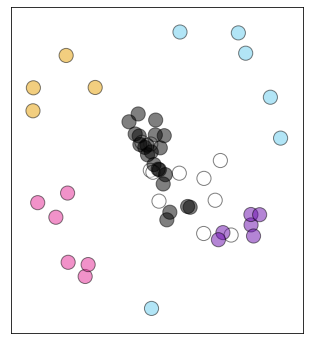
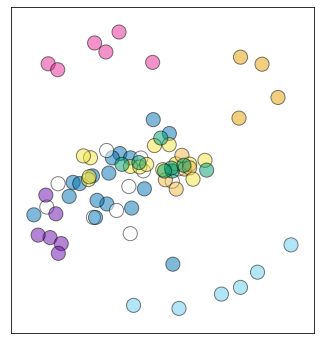
fix convalescent serum names

diff --git a/results/summary/mds_escape_profiles.md b/results/summary/mds_escape_profiles.md
@@ -9,6 +9,8 @@ Import Python modules:
 import itertools
 import os
 
+import altair as alt
+
 import adjustText
 
 from dms_variants.constants import CBPALETTE
@@ -311,6 +313,56 @@ for name, specs in mds_config.items():
     fig.savefig(plotfile, bbox_inches='tight')
     plt.show(fig)
     plt.close(fig)
+    
+    # make Altair versions for one specific plot
+    if name != 'Moderna_HAARVI_mAbs':
+        continue
+    color_to_class = {'#000000': 'vaccine sera',
+                      '#66CCEE': 'class 3 antibody',
+                      '#6a0dad': 'class 2 antibody',
+                      '#E52794': 'class 1 antibody',
+                      '#E69F00': 'class 4 antibody',
+                      '#FFFFFF': 'convalescent plasma'}
+    class_to_color = {val: key for key, val in color_to_class.items()}
+    alt_df = pd.DataFrame({'x': xs,
+                           'y': ys,
+                           'antibody / sera': conditions,
+                           'class': [color_to_class[c[0]] for c in colors],
+                           })
+    chart = (
+        alt.Chart(alt_df)
+        .encode(x=alt.X('x:Q',
+                        axis=alt.Axis(title=None,
+                                      grid=False,
+                                      labels=False,
+                                      ticks=False,
+                                      ),
+                        ),
+                y=alt.Y('y:Q',
+                        axis=alt.Axis(title=None,
+                                      grid=False,
+                                      labels=False,
+                                      ticks=False,
+                                      ),
+                        ),
+                color=alt.Color('class:N',
+                                scale=alt.Scale(range=[val for _, val in sorted(class_to_color.items())])
+                                ),
+                tooltip=['antibody / sera', 'class'],
+                )
+        .mark_circle(size=100,
+                     stroke='black',
+                     opacity=0.6,
+                     )
+        .properties(width=400,
+                    height=400)
+        .configure_view(strokeWidth=1,
+                        stroke='black')
+        )
+    int_chart_file = os.path.splitext(plotfile)[0] + '.html'
+    print(f"Saving interactive chart to {int_chart_file}")
+    display(chart)
+    chart.save(int_chart_file)
 ```
 
     
@@ -326,6 +378,62 @@ for name, specs in mds_config.items():
     
 
 
+    Saving interactive chart to results/multidimensional_scaling/Moderna_HAARVI_mAbs_mds.html
+
+
+
+
+<div id="altair-viz-215bc0b73fd94fcf8ceeb1de61f2f538"></div>
+<script type="text/javascript">
+  (function(spec, embedOpt){
+    let outputDiv = document.currentScript.previousElementSibling;
+    if (outputDiv.id !== "altair-viz-215bc0b73fd94fcf8ceeb1de61f2f538") {
+      outputDiv = document.getElementById("altair-viz-215bc0b73fd94fcf8ceeb1de61f2f538");
+    }
+    const paths = {
+      "vega": "https://cdn.jsdelivr.net/npm//vega@5?noext",
+      "vega-lib": "https://cdn.jsdelivr.net/npm//vega-lib?noext",
+      "vega-lite": "https://cdn.jsdelivr.net/npm//vega-lite@4.8.1?noext",
+      "vega-embed": "https://cdn.jsdelivr.net/npm//vega-embed@6?noext",
+    };
+
+    function loadScript(lib) {
+      return new Promise(function(resolve, reject) {
+        var s = document.createElement('script');
+        s.src = paths[lib];
+        s.async = true;
+        s.onload = () => resolve(paths[lib]);
+        s.onerror = () => reject(`Error loading script: ${paths[lib]}`);
+        document.getElementsByTagName("head")[0].appendChild(s);
+      });
+    }
+
+    function showError(err) {
+      outputDiv.innerHTML = `<div class="error" style="color:red;">${err}</div>`;
+      throw err;
+    }
+
+    function displayChart(vegaEmbed) {
+      vegaEmbed(outputDiv, spec, embedOpt)
+        .catch(err => showError(`Javascript Error: ${err.message}<br>This usually means there's a typo in your chart specification. See the javascript console for the full traceback.`));
+    }
+
+    if(typeof define === "function" && define.amd) {
+      requirejs.config({paths});
+      require(["vega-embed"], displayChart, err => showError(`Error loading script: ${err.message}`));
+    } else if (typeof vegaEmbed === "function") {
+      displayChart(vegaEmbed);
+    } else {
+      loadScript("vega")
+        .then(() => loadScript("vega-lite"))
+        .then(() => loadScript("vega-embed"))
+        .catch(showError)
+        .then(() => displayChart(vegaEmbed));
+    }
+  })({"config": {"view": {"continuousWidth": 400, "continuousHeight": 300, "stroke": "black", "strokeWidth": 1}}, "data": {"name": "data-ee61cd32dc635e6d5446525c4ff0e1f4"}, "mark": {"type": "circle", "opacity": 0.6, "size": 100, "stroke": "black"}, "encoding": {"color": {"type": "nominal", "field": "class", "scale": {"range": ["#E52794", "#6a0dad", "#66CCEE", "#E69F00", "#FFFFFF", "#000000"]}}, "tooltip": [{"type": "nominal", "field": "antibody / sera"}, {"type": "nominal", "field": "class"}], "x": {"type": "quantitative", "axis": {"grid": false, "labels": false, "ticks": false, "title": null}, "field": "x"}, "y": {"type": "quantitative", "axis": {"grid": false, "labels": false, "ticks": false, "title": null}, "field": "y"}}, "height": 400, "width": 400, "$schema": "https://vega.github.io/schema/vega-lite/v4.8.1.json", "datasets": {"data-ee61cd32dc635e6d5446525c4ff0e1f4": [{"x": -0.03986632910633704, "y": -0.2834240393389698, "antibody / sera": "subject H (day 152)", "class": "convalescent plasma"}, {"x": -0.03321102379001797, "y": -0.16142343536787238, "antibody / sera": "subject H (day 61)", "class": "convalescent plasma"}, {"x": 0.16066049598044355, "y": -0.03334249507451495, "antibody / sera": "subject J (day 121)", "class": "convalescent plasma"}, {"x": 0.14682897906393716, "y": 0.19440717161258741, "antibody / sera": "subject J (day 15)", "class": "convalescent plasma"}, {"x": -0.04665356006446851, "y": -0.05846997855766021, "antibody / sera": "subject B (day 113)", "class": "convalescent plasma"}, {"x": -0.22012230086862694, "y": -0.007991552874154836, "antibody / sera": "subject B (day 26)", "class": "convalescent plasma"}, {"x": -0.43808896810808695, "y": -0.1565237554388361, "antibody / sera": "subject E (day 104)", "class": "convalescent plasma"}, {"x": -0.15171604601964986, "y": -0.1418199843603223, "antibody / sera": "subject E (day 28)", "class": "convalescent plasma"}, {"x": -0.21576150782364661, "y": -0.20596969968026524, "antibody / sera": "subject I (day 102)", "class": "convalescent plasma"}, {"x": -0.20572250714497778, "y": -0.20635203240130465, "antibody / sera": "subject I (day 26)", "class": "convalescent plasma"}, {"x": 0.02298664610534081, "y": 0.016334926342672543, "antibody / sera": "subject A (day 120)", "class": "convalescent plasma"}, {"x": -0.08959821241546158, "y": 0.09855428481871517, "antibody / sera": "subject A (day 21)", "class": "convalescent plasma"}, {"x": -0.038431410392108574, "y": 0.07819630816084515, "antibody / sera": "subject A (day 45)", "class": "convalescent plasma"}, {"x": -0.3842211484022715, "y": -0.045241007071251824, "antibody / sera": "subject C (day 104)", "class": "convalescent plasma"}, {"x": -0.5000126170483079, "y": -0.19371728270933142, "antibody / sera": "subject C (day 32)", "class": "convalescent plasma"}, {"x": -0.1052379579987309, "y": -0.1728851448081848, "antibody / sera": "subject F (day 115)", "class": "convalescent plasma"}, {"x": -0.31270984620458114, "y": -0.0386782409172238, "antibody / sera": "subject F (day 48)", "class": "convalescent plasma"}, {"x": 0.16344775612841414, "y": -0.4292491762007971, "antibody / sera": "subject G (day 18)", "class": "convalescent plasma"}, {"x": 0.18889578786599467, "y": 0.025841264714497596, "antibody / sera": "subject G (day 94)", "class": "convalescent plasma"}, {"x": -0.12537194731691892, "y": 0.07812244057270182, "antibody / sera": "subject D (day 33)", "class": "convalescent plasma"}, {"x": 0.01086728110953954, "y": 0.07743845247711816, "antibody / sera": "subject D (day 76)", "class": "convalescent plasma"}, {"x": -0.1526773973461746, "y": 0.11334115739258477, "antibody / sera": "subject K (day 103)", "class": "convalescent plasma"}, {"x": 0.06982659296641441, "y": 0.2606990780111509, "antibody / sera": "subject K (day 29)", "class": "convalescent plasma"}, {"x": -0.3949862384246651, "y": -0.1889191815777102, "antibody / sera": "C002", "class": "class 2 antibody"}, {"x": -0.21011770256001705, "y": 0.6265589198872832, "antibody / sera": "C105", "class": "class 1 antibody"}, {"x": 0.19270768886087572, "y": -0.6403750084402929, "antibody / sera": "C110", "class": "class 3 antibody"}, {"x": -0.4226923511466742, "y": -0.3022764818902147, "antibody / sera": "C121", "class": "class 2 antibody"}, {"x": 0.7273476812584333, "y": -0.3370986084124763, "antibody / sera": "C135", "class": "class 3 antibody"}, {"x": -0.4428396134363275, "y": -0.09950580597360711, "antibody / sera": "C144", "class": "class 2 antibody"}, {"x": -0.15615304683503087, "y": 0.5836225673533794, "antibody / sera": "LY-CoV016", "class": "class 1 antibody"}, {"x": -0.1982695813105976, "y": -0.12466175198128877, "antibody / sera": "COV-021", "class": "convalescent plasma"}, {"x": -0.2812125248180074, "y": -0.04450911954202017, "antibody / sera": "COV-047", "class": "convalescent plasma"}, {"x": -0.33145731281693863, "y": -0.1056703811355667, "antibody / sera": "COV-057", "class": "convalescent plasma"}, {"x": -0.14205802788768632, "y": 0.005444728769084952, "antibody / sera": "COV-072", "class": "convalescent plasma"}, {"x": 0.027552795016735313, "y": -0.06955592330702681, "antibody / sera": "COV-107", "class": "convalescent plasma"}, {"x": -0.4797208070517162, "y": -0.2904860456707257, "antibody / sera": "COV2-2050", "class": "class 2 antibody"}, {"x": 0.4863057436200315, "y": 0.5588025548186991, "antibody / sera": "COV2-2082", "class": "class 4 antibody"}, {"x": 0.5891078987105037, "y": 0.5252331454884698, "antibody / sera": "COV2-2094", "class": "class 4 antibody"}, {"x": -0.024032702051660883, "y": -0.6257119250617433, "antibody / sera": "COV2-2096", "class": "class 3 antibody"}, {"x": 0.5675224218642329, "y": -0.46737462107926525, "antibody / sera": "COV2-2130", "class": "class 3 antibody"}, {"x": 0.06695123855575204, "y": 0.5339576863500118, "antibody / sera": "COV2-2165", "class": "class 1 antibody"}, {"x": -0.0934125828234101, "y": 0.678805399101716, "antibody / sera": "COV2-2196", "class": "class 1 antibody"}, {"x": -0.3692627267494232, "y": -0.3309452755171947, "antibody / sera": "COV2-2479", "class": "class 2 antibody"}, {"x": 0.3951811802110181, "y": -0.5718802303825791, "antibody / sera": "COV2-2499", "class": "class 3 antibody"}, {"x": 0.6653244939788463, "y": 0.3664479031204229, "antibody / sera": "COV2-2677", "class": "class 4 antibody"}, {"x": -0.4316294312679841, "y": 0.5271898018597563, "antibody / sera": "COV2-2832", "class": "class 1 antibody"}, {"x": 0.47917732233761423, "y": 0.2679053833724255, "antibody / sera": "CR3022", "class": "class 4 antibody"}, {"x": -0.383183969852771, "y": -0.37747144898455876, "antibody / sera": "LY-CoV555", "class": "class 2 antibody"}, {"x": -0.03898783125797423, "y": 0.03700593559858729, "antibody / sera": "M01 (day 119)", "class": "vaccine sera"}, {"x": 0.0056882534115529175, "y": 0.034827094661703355, "antibody / sera": "M02 (day 119)", "class": "vaccine sera"}, {"x": 0.1278257451247425, "y": -0.026389442739785926, "antibody / sera": "M02 (day 36)", "class": "vaccine sera"}, {"x": 0.14590631940634882, "y": 0.14099129474971472, "antibody / sera": "M03 (day 119)", "class": "vaccine sera"}, {"x": 0.17802589439196917, "y": 0.049594181110379165, "antibody / sera": "M04 (day 119)", "class": "vaccine sera"}, {"x": -0.22969643697359748, "y": 0.07868080809722389, "antibody / sera": "M05 (day 119)", "class": "vaccine sera"}, {"x": 0.21965054048717228, "y": 0.024931232318086135, "antibody / sera": "M05 (day 36)", "class": "vaccine sera"}, {"x": -0.26343253904849484, "y": 0.08756779979790569, "antibody / sera": "M06 (day 119)", "class": "vaccine sera"}, {"x": 0.038451712266843276, "y": 0.046949161629994296, "antibody / sera": "M07 (day 119)", "class": "vaccine sera"}, {"x": 0.0756785088629505, "y": 0.13696143865490612, "antibody / sera": "M08 (day 119)", "class": "vaccine sera"}, {"x": 0.206787931237728, "y": 0.09033083438268409, "antibody / sera": "M08 (day 36)", "class": "vaccine sera"}, {"x": 0.11527756498850589, "y": 0.02201171743427806, "antibody / sera": "M09 (day 119)", "class": "vaccine sera"}, {"x": -0.23918492378752623, "y": -0.025469933331090662, "antibody / sera": "M10 (day 119)", "class": "vaccine sera"}, {"x": 0.17951855963315708, "y": -0.07083029204565332, "antibody / sera": "M10 (day 36)", "class": "vaccine sera"}, {"x": -0.23564399762522567, "y": -0.011702133940489698, "antibody / sera": "M11 (day 119)", "class": "vaccine sera"}, {"x": 0.2440027496823892, "y": 0.04826422507407195, "antibody / sera": "M12 (day 119)", "class": "vaccine sera"}, {"x": 0.24363791517876673, "y": 0.03062392556612426, "antibody / sera": "M12 (day 36)", "class": "vaccine sera"}, {"x": 0.2595664347816777, "y": -0.023498034496547783, "antibody / sera": "M13 (day 119)", "class": "vaccine sera"}, {"x": 0.3167178957186622, "y": 0.06640037233796543, "antibody / sera": "M14 (day 119)", "class": "vaccine sera"}, {"x": 0.16079780713962233, "y": 0.015251477659026305, "antibody / sera": "M16 (day 119)", "class": "vaccine sera"}, {"x": 0.1563462602592982, "y": 0.029518086965779344, "antibody / sera": "M17 (day 119)", "class": "vaccine sera"}, {"x": 0.10573541772793354, "y": 0.1728030516603547, "antibody / sera": "M18 (day 119)", "class": "vaccine sera"}, {"x": 0.0014925411424666368, "y": 0.05585130776733478, "antibody / sera": "M19 (day 119)", "class": "vaccine sera"}, {"x": 0.12358427739357074, "y": 0.01524332625030942, "antibody / sera": "M20 (day 119)", "class": "vaccine sera"}, {"x": -0.07918665027961311, "y": 0.04718143692064929, "antibody / sera": "M21 (day 119)", "class": "vaccine sera"}, {"x": 0.32475096225396033, "y": 0.019668579588131393, "antibody / sera": "M22 (day 119)", "class": "vaccine sera"}, {"x": 0.2162873346093145, "y": 0.04295446326456448, "antibody / sera": "M23 (day 119)", "class": "vaccine sera"}, {"x": -0.38600654391862055, "y": 0.49888448445308686, "antibody / sera": "REGN10933", "class": "class 1 antibody"}, {"x": 0.48614769264156815, "y": -0.5399799398564556, "antibody / sera": "REGN10987", "class": "class 3 antibody"}]}}, {"mode": "vega-lite"});
+</script>
+
+
     
     Making plot Moderna_HAARVI_mAbs_more_colors, which has the following antibodies:
     ['M01-day-119_80', 'M02-day-36_1250', 'M02-day-119_200', 'M03-day-119_200', 'M04-day-119_200', 'M05-day-36_500', 'M05-day-119_500', 'M06-day-119_80', 'M07-day-119_200', 'M08-day-36_1250', 'M08-day-119_200', 'M09-day-119_500', 'M10-day-36_500', 'M10-day-119_200', 'M11-day-119_200', 'M12-day-36_1250', 'M12-day-119_200', 'M13-day-119_200', 'M14-day-119_500', 'M16-day-119_1250', 'M17-day-119_200', 'M18-day-119_80', 'M19-day-119_200', 'M20-day-119_200', 'M21-day-119_200', 'M22-day-119_200', 'M23-day-119_200', '23_d21_1250', '23_d45_1250', '23_d120_500', '1C_d26_200', '1C_d113_200', '24C_d32_200', '24C_d104_200', '6C_d33_500', '6C_d76_500', '22C_d28_200', '22C_d104_200', '25C_d48_200', '25C_d115_80', '25_d18_500', '25_d94_200', '12C_d61_160', '12C_d152_80', '23C_d26_80', '23C_d102_80', '13_d15_200', '13_d121_1250', '7C_d29_500', '7C_d103_200', 'COV-021_500', 'COV-047_200', 'COV-057_50', 'COV-072_200', 'COV-107_80', 'CB6_400', 'LY-CoV555_400', 'REGN10933_400', 'REGN10987_400', 'CR3022_400', 'COV2-2677_400', 'COV2-2082_400', 'COV2-2094_400', 'COV2-2165_400', 'COV2-2832_400', 'COV2-2479_400', 'COV2-2050_400', 'COV2-2096_400', 'COV2-2499_400', 'C105_400', 'C144_400', 'C002_400', 'C121_400', 'C135_400', 'C110_400', 'COV2-2196_400', 'COV2-2130_400']
@@ -335,7 +443,7 @@ for name, specs in mds_config.items():
 
 
     
-![png](mds_escape_profiles_files/mds_escape_profiles_18_3.png)
+![png](mds_escape_profiles_files/mds_escape_profiles_18_5.png)
     
 
 
@@ -348,7 +456,7 @@ for name, specs in mds_config.items():
 
 
     
-![png](mds_escape_profiles_files/mds_escape_profiles_18_5.png)
+![png](mds_escape_profiles_files/mds_escape_profiles_18_7.png)
     
 
 
@@ -361,7 +469,7 @@ for name, specs in mds_config.items():
 
 
     
-![png](mds_escape_profiles_files/mds_escape_profiles_18_7.png)
+![png](mds_escape_profiles_files/mds_escape_profiles_18_9.png)
     
 
 
@@ -374,6 +482,11 @@ for name, specs in mds_config.items():
 
 
     
-![png](mds_escape_profiles_files/mds_escape_profiles_18_9.png)
+![png](mds_escape_profiles_files/mds_escape_profiles_18_11.png)
     
 
+
+
+```python
+
+```
